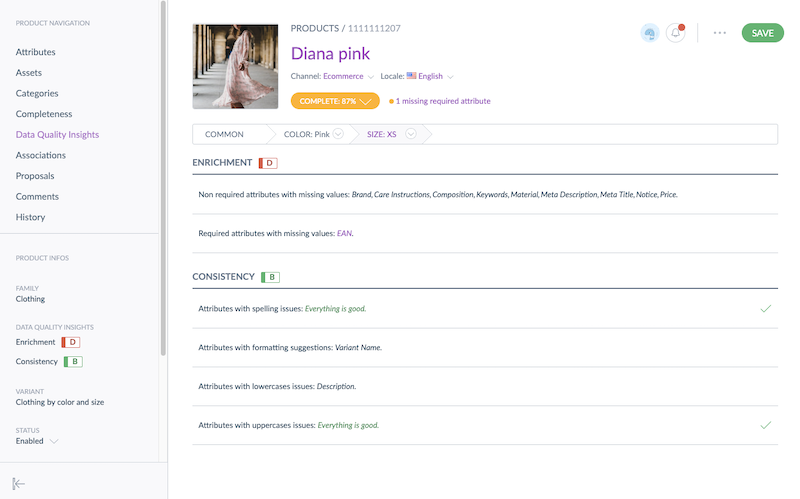
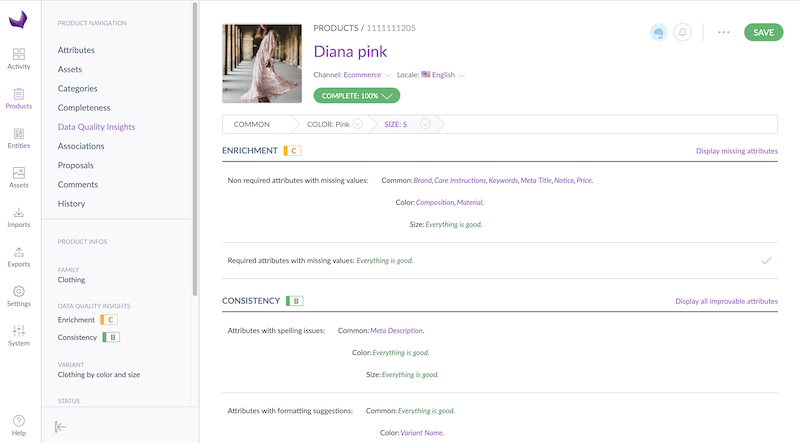
Added new languages in understand and improve Added info on product models/variants in improve

diff --git a/content/md/products-super-power/improve-data-quality.md b/content/md/products-super-power/improve-data-quality.md
@@ -59,37 +59,41 @@ To help you improve your products **enrichment** and **consistency**, simply fol
 From this panel, you will know which attributes need to be improved and how to improve them.
 
 ::: info
-Links can take you either to a specific attribute or to the list of improvable attributes in the attribute panel.
+From the 'data quality panel', links on attribute names can take you to a specific attribute. By clicking on the 'Display all improvable attributes', you can easily access a product edit form filtered on all the attributes that need to be checked for consistency.
 :::
-
-
-![Image data quality variant panel](../img/data-quality-variant-panel.png)
-
-For variant products, the data quality panel lists all the attributes that need improvements to reach a higher data quality grade, whether at model or variant level.
-
-::: info
-Black attribute labels are not clickable and must be improved at product level.
-Purple attribute labels are clickable and can be improved at the variant level.
-:::
-
 
 To help you even further, in the `Attributes` panel, you can select spelling corrections and title formatting improvements.
 
 ![Image data quality spellcheck corrections](../img/data-quality-spelling.png)
 
 ::: info
-Even if they don't have permission to edit, all PIM users will be able to read data quality insights on all attributes.
-:::
-
-::: info
-Spell check is available for the English, French, German, Spanish, Italian, Dutch, Danish, and Swedish locales.
-Spell check is usable with text and simple text area attributes.
+Spell check is available for the English, French, German, Spanish, Italian, Dutch, Danish, Swedish, Norwegian and Portuguese (Brazilian) locales.
+Spell check is usable with localisable text and text area attributes.
 :::
 
 ::: info
 Title formatting suggestion is available for English locales.
 :::
 
-::: tips
-From the `data quality insights` panel, by clicking on the "Display all improvable attributes", you can easily access a product edit form filtered on all the attributes that need to be checked for consistency.
+::: info
+Even if they don't have permission to edit, all PIM users will be able to read data quality insights on all attributes.
 :::
+
+# Improve data quality on variant products
+
+If you work with variant products, you will see slight differences between grades and recommendations for simple, product models and variant products.
+
+For **product models**:
+![Image data quality product model panel](../img/data-quality-model-panel.png)
+- Data quality grades are calculated on the attributes that can be improved at product model level.
+- Recommendations are given for attributes at product model level.
+
+For **sub-product model**:
+![Image data quality sub product model panel](../img/data-quality-sub-model-panel.png)
+- Data quality grades are calculated on the attributes that can be improved at product model + sub-product model levels
+- Recommendations are given for attributes at product model + sub-product model levels by clicking on an attribute name, you can go and improve an attribute on the product model.
+
+For **variant products**:
+![Image data quality variant panel](../img/data-quality-variant-panel.png)
+- Data quality grades are calculated on the attributes that can be improved at all levels hence reflecting the data quality of the product that will be published. Data quality grades are therefore displayed in the left side bar only for product variant.
+- Recommendations are given for all attributes by clicking on an attribute name, you can go and improve an attribute on the product model or sub-product model.

diff --git a/content/md/what-is/understand-data-quality.md b/content/md/what-is/understand-data-quality.md
@@ -35,8 +35,8 @@ The **consistency grade** is calculated on several criteria. The mix of the foll
 - Lowercases formatting: the PIM checks whether text area attributes are correctly formatted for lower cases.
 
 ::: info
-Spell check is available for the English, French, German, Spanish, Italian, Dutch, Danish, and Swedish locales.
-Spell check is usable with localisable text and simple text area attributes.
+Spell check is available for the English, French, German, Spanish, Italian, Dutch, Danish, Swedish, Norwegian and Portuguese (Brazilian) locales.
+Spell check is usable with localisable text and text area attributes.
 :::
 
 ::: info
